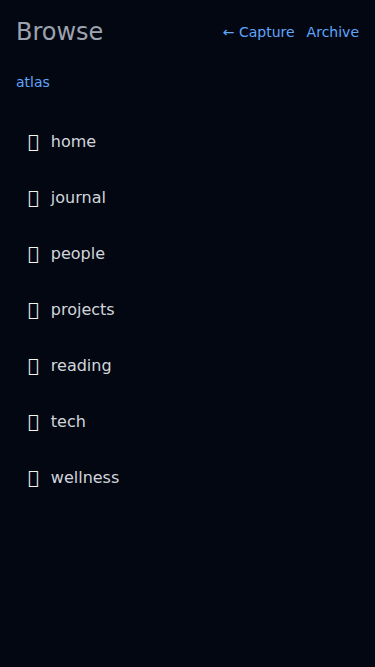
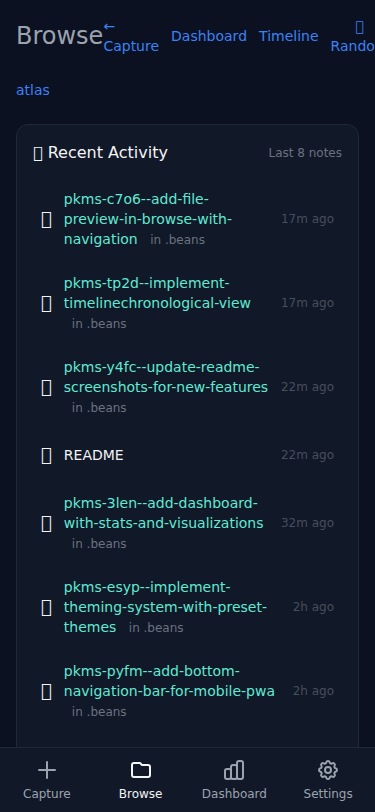
docs: update README screenshots with new features
Added screenshots for Dashboard, Timeline, and Settings pages:
- dashboard-desktop.png / dashboard-mobile.png (new stats page)
- timeline-desktop.png / timeline-mobile.png (chronological view)
- settings-desktop.png / settings-mobile.png (themes + PWA install)
- Updated browse screenshots showing Recent Activity and Random button
- All mobile screenshots show new bottom navigation bar

Removed outdated note about pending screenshot updates.

diff --git a/README.md b/README.md
@@ -31,8 +31,6 @@ Athena follows a simple philosophy: **capture fast, organize later**. Drop raw n
 
 ## Screenshots
 
-> **Note:** Screenshots are being updated to reflect recent features. See [pkms-y4fc](/.beans/pkms-y4fc--update-readme-screenshots-for-new-features.md) for details.
-
 <table>
   <tr>
     <th>Desktop</th>
@@ -43,8 +41,20 @@ Athena follows a simple philosophy: **capture fast, organize later**. Drop raw n
     <td><img src="assets/capture-mobile.png" width="200"></td>
   </tr>
   <tr>
+    <td><strong>Dashboard</strong><br><img src="assets/dashboard-desktop.png" width="400"></td>
+    <td><img src="assets/dashboard-mobile.png" width="200"></td>
+  </tr>
+  <tr>
     <td><strong>Browse</strong><br><img src="assets/browse-desktop.png" width="400"></td>
     <td><img src="assets/browse-mobile.png" width="200"></td>
+  </tr>
+  <tr>
+    <td><strong>Timeline</strong><br><img src="assets/timeline-desktop.png" width="400"></td>
+    <td><img src="assets/timeline-mobile.png" width="200"></td>
+  </tr>
+  <tr>
+    <td><strong>Settings</strong><br><img src="assets/settings-desktop.png" width="400"></td>
+    <td><img src="assets/settings-mobile.png" width="200"></td>
   </tr>
   <tr>
     <td><strong>Archive</strong><br><img src="assets/archive-desktop.png" width="400"></td>

diff --git a/.beans/pkms-y4fc--update-readme-screenshots-for-new-features.md b/.beans/pkms-y4fc--update-readme-screenshots-for-new-features.md
@@ -1,10 +1,11 @@
 ---
 # pkms-y4fc
 title: Update README screenshots for new features
-status: in-progress
+status: completed
 type: task
+priority: normal
 created_at: 2026-01-22T16:33:22Z
-updated_at: 2026-01-22T16:33:22Z
+updated_at: 2026-01-22T16:59:06Z
 ---
 
 Update screenshots to reflect new features added:
@@ -36,9 +37,9 @@ Update screenshots to reflect new features added:
 5. Update README.md to reference new screenshots
 
 ## Checklist:
-- [ ] Take new dashboard screenshots (desktop + mobile)
-- [ ] Take new settings screenshots (desktop + mobile)
-- [ ] Update browse screenshots (desktop + mobile)
-- [ ] Take mobile bottom nav screenshot
-- [ ] Update README screenshots section
-- [ ] Verify all images display correctly in README
+- [x] Take new dashboard screenshots (desktop + mobile)
+- [x] Take new settings screenshots (desktop + mobile)
+- [x] Update browse screenshots (desktop + mobile)
+- [x] Take mobile bottom nav screenshot (visible in all mobile screenshots)
+- [x] Update README screenshots section
+- [x] Verify all images display correctly in README
